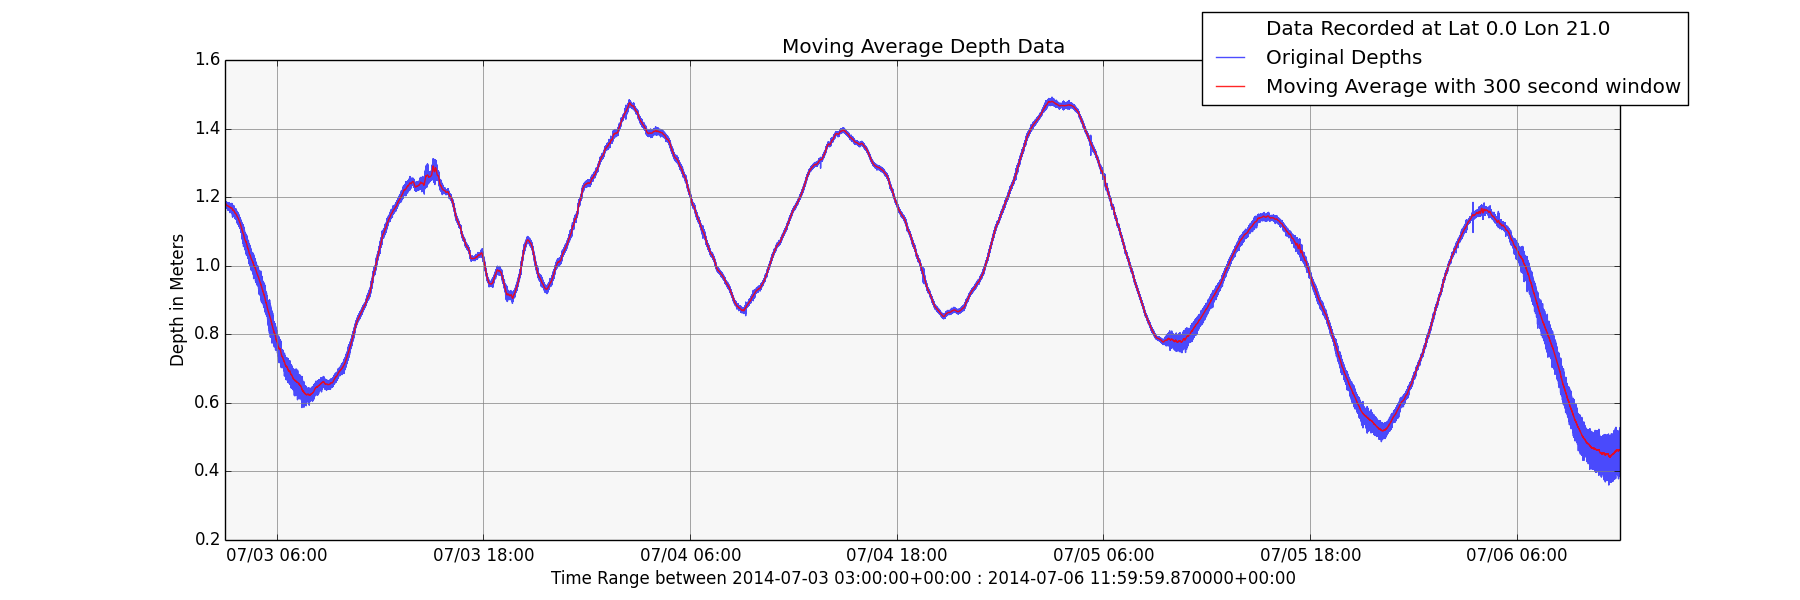
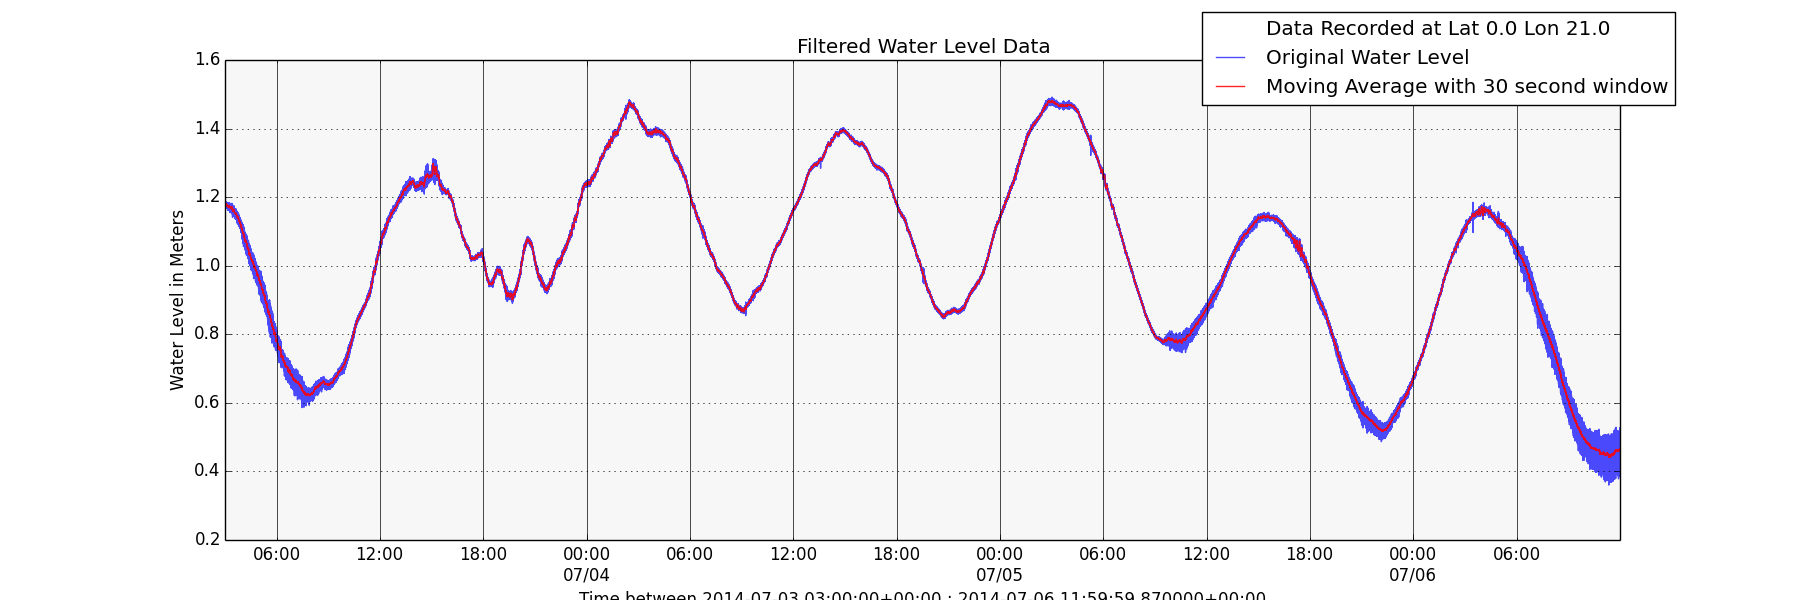
Script3 Changes

diff --git a/netCDF_Instrument/TimeDomainAnalysis/script3.py b/netCDF_Instrument/TimeDomainAnalysis/script3.py
@@ -4,7 +4,7 @@ import matplotlib.pyplot as plt
 from matplotlib.patches import Rectangle
 import matplotlib.dates as pltdates
 import pandas as pd
-
+import math
 
 class MovingAverage(NetCDFReader):
     
@@ -29,9 +29,9 @@ class MovingAverage(NetCDFReader):
         window_seconds -- the size of the window to average for the data
         '''
         self.window_size = window_seconds / (1 / self.frequency)
+        self.min_periods = int(math.ceil(self.window_size * .9))
         data_series = pd.Series(self.depth_data, index=self.times)
-        self.rolling_mean = pd.rolling_mean(data_series, self.window_size, center=True)
-
+        self.rolling_mean = pd.rolling_mean(data_series, self.window_size, center=True, min_periods=self.min_periods)
         self.graph_data(file_format, out_file_name)
       
     def filter_data(self):
@@ -39,18 +39,22 @@ class MovingAverage(NetCDFReader):
         
         test_series = pd.Series(self.pressure_qc)
         test_series[test_series != 1111] = np.NaN
-        wrong_index = test_series[test_series != 1111].index
-        depth_series = pd.Series(self.depth_data)
+# for the mean time we will no longer interpolate the data, instead there will be a missing value if there
+# is less than90% of the rolling average
+
+
+#         wrong_index = test_series[test_series != 1111].index
+#         depth_series = pd.Series(self.depth_data)
         
         #Set NaN to flagged bad data
-        for x in wrong_index:
-            np.putmask(depth_series.values, depth_series.index==x, np.NaN)
-    
+#         for x in wrong_index:
+#             np.putmask(depth_series.values, depth_series.index==x, np.NaN)
+#     
         #interpolate NaN data
-        x = np.interp(np.arange(len(self.pressure_data)),[x for x in np.arange(len(depth_series.index)) \
-                      if x not in wrong_index] ,depth_series.values[pd.notnull(depth_series.values)])
-    
-        self.depth_data = x
+#         x = np.interp(np.arange(len(self.pressure_data)),[x for x in np.arange(len(depth_series.index)) \
+#                       if x not in wrong_index] ,depth_series.values[pd.notnull(depth_series.values)])
+#     
+#         self.depth_data = x
         
     def graph_data(self, file_format, out_file_name):
         '''graphs both rolling average and original depth data'''
@@ -60,16 +64,22 @@ class MovingAverage(NetCDFReader):
         ax.set_xlabel('Time between %s : %s' % (self.times[0], self.times[::-1][0]))
         ax.set_ylabel('Water Level in Meters')
         
-        plt.grid(b=True, which='major', color='grey', linestyle="-")
+        #plt.grid(b=True, which='both', axis='both',color='grey', linestyle="-")
         plt.title("Filtered Water Level Data")
         
         p1, = plt.plot(self.times,self.depth_data,alpha=0.70)   
         p2, = plt.plot(self.rolling_mean.index,self.rolling_mean.values, color="red",alpha=0.85)
         
         extra = Rectangle((0, 0), 1, 1, fc="w", fill=False, edgecolor='none', linewidth=0)
-        hfmt = pltdates.DateFormatter('%m/%d %H:%M')  
+        hfmt = pltdates.DateFormatter('\n%m/%d') 
+        hfmt2 = pltdates.DateFormatter('%H:%M') 
+       
+        ax.xaxis.set_minor_locator(pltdates.HourLocator(interval = 6))
+        ax.xaxis.set_minor_formatter(hfmt2)
+        ax.xaxis.grid(True, which="minor", linestyle="-")
+        ax.xaxis.set_major_locator(pltdates.DayLocator())
         ax.xaxis.set_major_formatter(hfmt)
-        
+        ax.yaxis.grid()
         
         plt.legend([extra,p1,p2],["Data Recorded at Lat %s Lon %s" % (self.latitude,self.longitude), \
                                   "Original Water Level","Moving Average with %d second window" % \

diff --git a/netCDF_Instrument/NetCDF_Utils/edit_netcdf.py b/netCDF_Instrument/NetCDF_Utils/edit_netcdf.py
@@ -149,6 +149,19 @@ class NetCDFReader(object):
         self.temperature_frame = pd.DataFrame(self.dataframe_vals)
 
 
+class NetCDFToCSV(NetCDFReader):
+    
+    def __init__(self):
+        self.file_name = None
+        self.time_convert = True
+    
+    def convert_to_csv(self):
+        self.get_test_data(self.file_name, self.time_convert)
+        
+        test = pd.DataFrame([pd.Series(self.pressure_data,index=self.times)])
+        test.to_csv('C:\\Tappy\\test.csv',',')
+        
+        
 class NetCDFWriter(object):
 
     def __init__(self):
@@ -230,7 +243,6 @@ class NetCDFWriter(object):
         return var_dict
     
 if __name__ == '__main__':
-    a = NetCDFReader()
-    a.get_test_data('C:\\Users\\Gregory\\Documents\\GitHub\\wave-sensor\\netCDF_Instrument\\TimeDomainAnalysis\\script3in.nc')
-    for x in a.pressure_qc:
-        print(x)
+    a = NetCDFToCSV()
+    a.file_name = 'C:\\Users\\Gregory\\Documents\\GitHub\\wave-sensor\\netCDF_Instrument\\TimeDomainAnalysis\\script3in.nc'
+    a.convert_to_csv()
